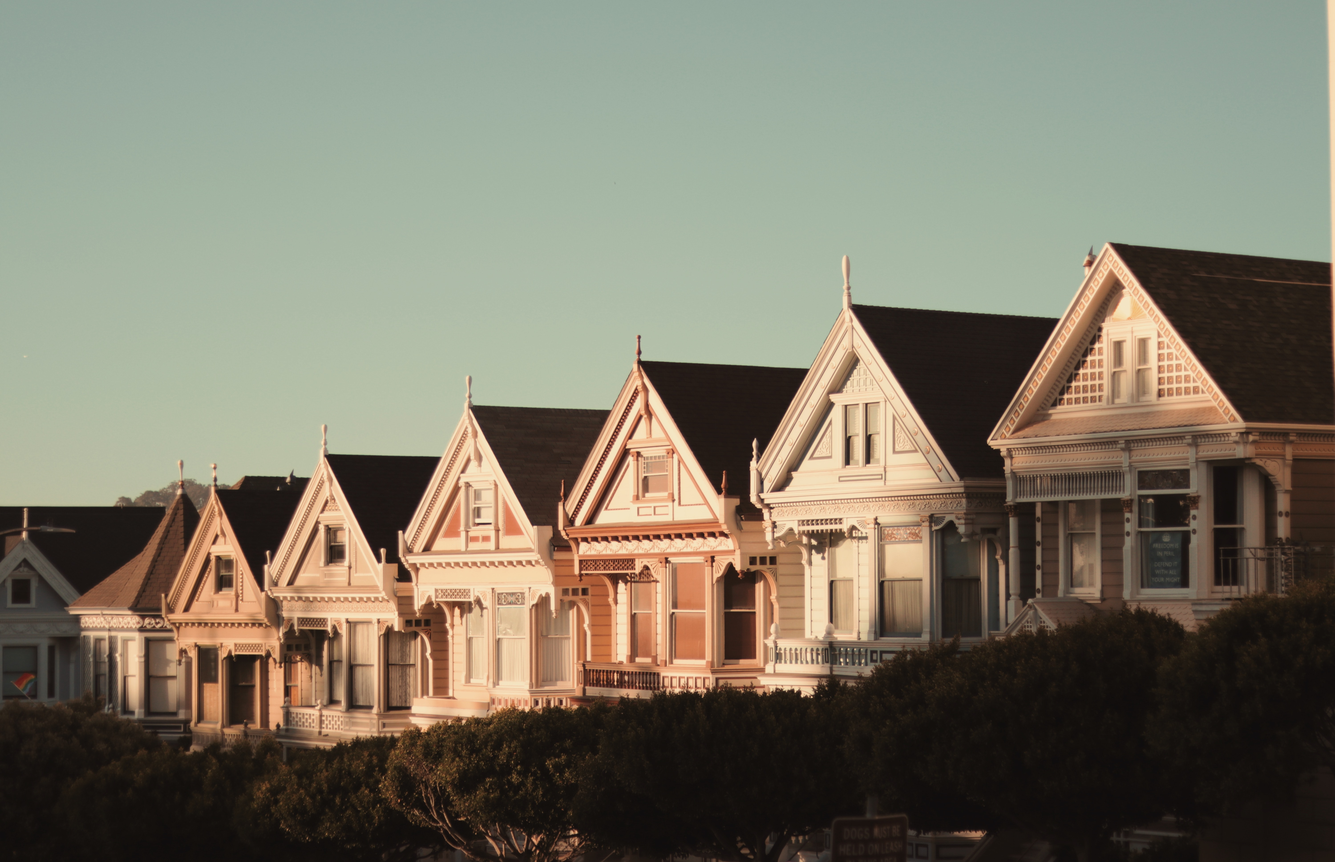
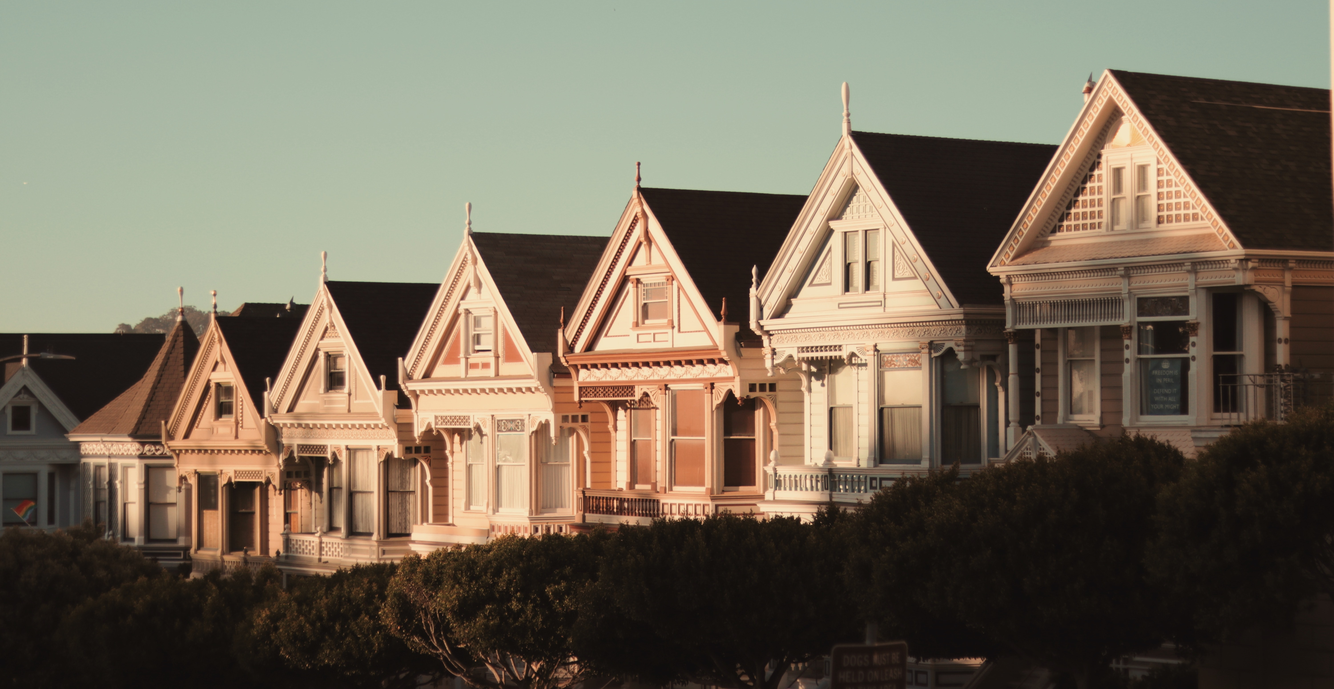
Cleanup code add new pic for mls, update navigation css for mls

diff --git a/index.html b/index.html
@@ -1,47 +1,47 @@
 <!DOCTYPE html>
 <html lang="en">
 
-<head>
-  <meta charset="UTF-8">
-  <meta name="viewport" content="width=device-width, initial-scale=1.0">
-  <link href="https://cdn.jsdelivr.net/npm/bootstrap@5.0.2/dist/css/bootstrap.min.css" rel="stylesheet"
-    integrity="sha384-EVSTQN3/azprG1Anm3QDgpJLIm9Nao0Yz1ztcQTwFspd3yD65VohhpuuCOmLASjC" crossorigin="anonymous">
-  <link rel="preconnect" href="https://fonts.googleapis.com">
-  <link rel="preconnect" href="https://fonts.gstatic.com" crossorigin>
-  <link href="https://fonts.googleapis.com/css2?family=Montserrat&display=swap" rel="stylesheet">
-  <script src="https://ajax.googleapis.com/ajax/libs/jquery/3.5.1/jquery.min.js"></script>
-  <script src="https://cdnjs.cloudflare.com/ajax/libs/popper.js/1.16.0/umd/popper.min.js"></script>
-  <script src="https://cdn.jsdelivr.net/npm/bootstrap@5.0.2/dist/js/bootstrap.bundle.min.js"
-    integrity="sha384-MrcW6ZMFYlzcLA8Nl+NtUVF0sA7MsXsP1UyJoMp4YLEuNSfAP+JcXn/tWtIaxVXM" crossorigin="anonymous">
-  </script>
-  <link rel="stylesheet" href="https://cdn.jsdelivr.net/npm/bootstrap-icons@1.5.0/font/bootstrap-icons.css">
-  <link href="./CSS/headers.css" rel="stylesheet">
-  <link href="./CSS/index.css" rel="stylesheet">
-  <link rel="icon" type="image/x-icon" href="./favicon.ico" />
-  <title>ZeroPads - Home Page</title>
-</head>
+  <head>
+    <meta charset="UTF-8">
+    <meta name="viewport" content="width=device-width, initial-scale=1.0">
+    <link href="https://cdn.jsdelivr.net/npm/bootstrap@5.0.2/dist/css/bootstrap.min.css" rel="stylesheet"
+      integrity="sha384-EVSTQN3/azprG1Anm3QDgpJLIm9Nao0Yz1ztcQTwFspd3yD65VohhpuuCOmLASjC" crossorigin="anonymous">
+    <link rel="preconnect" href="https://fonts.googleapis.com">
+    <link rel="preconnect" href="https://fonts.gstatic.com" crossorigin>
+    <link href="https://fonts.googleapis.com/css2?family=Montserrat&display=swap" rel="stylesheet">
+    <script src="https://ajax.googleapis.com/ajax/libs/jquery/3.5.1/jquery.min.js"></script>
+    <script src="https://cdnjs.cloudflare.com/ajax/libs/popper.js/1.16.0/umd/popper.min.js"></script>
+    <script src="https://cdn.jsdelivr.net/npm/bootstrap@5.0.2/dist/js/bootstrap.bundle.min.js"
+      integrity="sha384-MrcW6ZMFYlzcLA8Nl+NtUVF0sA7MsXsP1UyJoMp4YLEuNSfAP+JcXn/tWtIaxVXM" crossorigin="anonymous">
+    </script>
+    <link rel="stylesheet" href="https://cdn.jsdelivr.net/npm/bootstrap-icons@1.5.0/font/bootstrap-icons.css">
+    <link href="./CSS/headers.css" rel="stylesheet">
+    <link href="./CSS/index.css" rel="stylesheet">
+    <link rel="icon" type="image/x-icon" href="./favicon.ico" />
+    <title>ZeroPads - Home Page</title>
+  </head>
 
-<style>
-  /* Navigation Formatting not active */
-  .list:not(.active) {
-    background-color: none;
-    color: black;
-  }
+  <style>
+    /* Navigation Formatting not active */
+    .list:not(.active) {
+      background-color: none;
+      color: black;
+    }
 
-  /* Navigation Formatting active */
-  #active {
-    font-weight: bold !important;
-    border-bottom: 1px solid black;
-    padding-bottom: 2px;
-  }
+    /* Navigation Formatting active */
+    #active {
+      font-weight: bold !important;
+      border-bottom: 1px solid black;
+      padding-bottom: 2px;
+    }
 
-  #active:hover {
-    border-bottom: 1px solid rgba(57, 181, 74, 1) !important;
-  }
-</style>
+    #active:hover {
+      border-bottom: 1px solid rgba(57, 181, 74, 1) !important;
+    }
+  </style>
 
-<body>
-  <div class="background">
+  <body>
+    
     <!-- Navigation Bar-->
     <div class="container">
       <!-- Header Section-->
@@ -60,101 +60,103 @@
       </header>
       <!-- End Header -->
     </div>
-    <div class="section"></div>
-    <!-- End Header -->
-
-    <div class="body">
-      <h1 class="fw-bold">ZeroPads Group Assignment</h1><br>
-      <p>Welcome to our group assignment for MIST7571E. <br />
-        We came up with this project with one goal in mind:
-        To create reuseable code to later use in our collaborations with the <a
+    <div class="background"></div>
+      <div class="section"></div>
+      <div class="body">
+        <h1 class="fw-bold">ZeroPads Group Assignment</h1><br />
+        <p>Welcome to our group assignment for MIST7571E. <br />
+          We came up with this project with one goal in mind:
+          To create reuseable code to later use in our collaborations with the <a
           href="https://www.zeropads.org/">ZeroPads not-for-profit company </a> . After
-        meeting with our sponsor, we decided to move forward with an MLS
-        listings page to later merge into the ZeroPads website.
-        We've created a Real Estate listings application that allows you to search for homes that are
-        for sale by <strong>city</strong> and <strong>state.</strong></p><br>
+          meeting with our sponsor, we decided to move forward with an MLS
+          listings page to later merge into the ZeroPads website.
+          We've created a Real Estate listings application that allows you to search for homes that are
+          for sale by <strong>city</strong> and <strong>state.</strong>
+        </p><br />
 
-      <p>This project was writtin in HTML/ CSS/ JavaScript and it uses the <a
-          href="https://rapidapi.com/datascraper/api/us-real-estate/"><strong>US Real
-            Estate</strong> API </a>
-        found on Rapid API <br />
-        You can find the api details below.</a><br />
-        This project is hosted using <strong>Github Pages</strong>.</p><br>
-      <a href="./mls.html">
-        <center><button class="button">Start Your Search</button>
-      </a> <br />
-      <a href='https://rapidapi.com/datascraper/api/us-real-estate' target="_blank"><button class="button">API
-          Discovery</button></a></center>
-      <br><br>
+        <p>This project was writtin in HTML/ CSS/ JavaScript and it uses the 
+          <a href="https://rapidapi.com/datascraper/api/us-real-estate/"><strong>US Real
+            Estate</strong> API 
+          </a> found on Rapid API <br />
+          You can find the api details below.<br />
+          This project is hosted using <strong>Github Pages</strong>.
+        </p><br />
+        
+        <a href="./mls.html">
+          <center><button class="button">Start Your Search</button>
+        </a> <br />
+        <a href='https://rapidapi.com/datascraper/api/us-real-estate' target="_blank"><button class="button">API
+            Discovery</button></a></center>
+        <br><br>
 
-      <h2 class="fw-bold title">Team Members</h2><br>
-      <table class="table table-bordered table-striped">
-        <thead>
-          <tr>
-            <th scope="col">Name</th>
-            <th scope="col">UGA Email</th>
-          </tr>
-        </thead>
-        <tbody>
-          <tr>
-            <th scope="row">Harli Bott</th>
-            <td>hjb15032@uga.edu</td>
-          </tr>
-          <tr>
-            <th scope="row">Christina Tomter</th>
-            <td>christina.tomter@uga.edu</td>
-
-          </tr>
-          <tr>
-            <th scope="row">Casey Powell</th>
-            <td>casey.powell@uga.edu</td>
-          </tr>
-          <tr>
-            <th scope="row">Kevin Marshall</th>
-            <td>kevin.marshall@uga.edu</td>
-          </tr>
-          <tr>
-            <th scope="row">Gary LeAndre</th>
-            <td>gary.leandre@uga.edu</td>
-          </tr>
-          <tr>
-            <th scope="row">Aj Johnson</th>
-            <td>alj67699@uga.edu</td>
-          </tr>
-        </tbody>
-      </table>
-      <br>
-      <div class="container-fluid py-4 question">
-        <h1>Questions?</h1>
-        <p>Reach out to our team </p> <br />
+        <h2 class="fw-bold title">Team Members</h2><br>
+        <table class="table table-bordered table-striped">
+          <thead>
+            <tr>
+              <th scope="col">Name</th>
+              <th scope="col">UGA Email</th>
+            </tr>
+          </thead>
+          <tbody>
+            <tr>
+              <th scope="row">Harli Bott</th>
+              <td>hjb15032@uga.edu</td>
+            </tr>
+            <tr>
+              <th scope="row">Aj Johnson</th>
+              <td>alj67699@uga.edu</td>
+            </tr>
+            <tr>
+              <th scope="row">Gary LeAndre</th>
+              <td>gary.leandre@uga.edu</td>
+            </tr>
+            <tr>
+              <th scope="row">Kevin Marshall</th>
+              <td>kevin.marshall@uga.edu</td>
+            </tr>
+            <tr>
+              <th scope="row">Christina Tomter</th>
+              <td>christina.tomter@uga.edu</td>
+            </tr>
+            <tr>
+              <th scope="row">Casey Powell</th>
+              <td>casey.powell@uga.edu</td>
+            </tr>
+          </tbody>
+        </table>
+        <br>
+        <div class="container-fluid py-4 question">
+          <h1>Questions?</h1>
+          <p>Reach out to our team members above and they will be happy to assist you with
+            any questions that you might have.
+          </p><br />
+        </div>
       </div>
     </div>
-  </div>
-  </div>
 
-  <footer class="bg-light text-center text-white">
-    <!-- Grid container -->
-    <div class="container p-4 pb-0">
-      <!-- Section: Social media -->
-      <section class="mb-4">
-        <!-- Google -->
-        <a class="btn btn-primary btn-floating m-1"
-          style="background-color: #39b54a; border-color: #39b54a; border-radius: 0px;"
-          href="https://www.google.com/search?client=firefox-b-1-d&q=ZeroPads+Development+group" target="_blank"
-          role="button"><i class="bi bi-google"></i></a>
+    <footer class="bg-light text-center text-white">
+      <!-- Grid container -->
+      <div class="container p-4 pb-0">
+        <!-- Section: Social media -->
+        <section class="mb-4">
+          <!-- Google -->
+          <a class="btn btn-primary btn-floating m-1"
+            style="background-color: #39b54a; border-color: #39b54a; border-radius: 0px;"
+            href="https://www.google.com/search?client=firefox-b-1-d&q=ZeroPads+Development+group" target="_blank"
+            role="button"><i class="bi bi-google"></i>
+          </a>
 
-        <!-- Instagram -->
-        <a class="btn btn-primary btn-floating m-1"
-          style="background-color: #39b54a; border-color: #39b54a; border-radius: 0px;"
-          href="https://www.instagram.com/zeropads/" target="_blank" role="button"><i class="bi bi-instagram"></i></a>
-      </section>
-      <!-- Section: Social media -->
-    </div>
-    <div class="text-center p-3" style="background-color: rgba(0, 0, 0, 0.2);">
-      ZeroPads Development Group
-    </div>
-  </footer>
-
-</body>
-
+          <!-- Instagram -->
+          <a class="btn btn-primary btn-floating m-1"
+            style="background-color: #39b54a; border-color: #39b54a; border-radius: 0px;"
+            href="https://www.instagram.com/zeropads/" target="_blank" role="button"><i class="bi bi-instagram"></i>
+          </a>
+        </section>
+        <!-- Section: Social media -->
+      </div>
+      <div class="text-center p-3" style="background-color: rgba(0, 0, 0, 0.2);">
+        ZeroPads Development Group Inc.
+      </div>
+    </footer>
+  </body>
 </html>

diff --git a/CSS/mls.css b/CSS/mls.css
@@ -96,6 +96,15 @@
   .container{
     margin-bottom: 0px !important;
   }
+
+  .list, .nav-link{
+    color: black !important;
+}
+
+  .nav-link:hover {
+      text-decoration: none;
+      color: rgba(57, 181, 74, 1) !important;
+  }
   
   @media only screen and (max-width: 1232px){
     .form{

diff --git a/CSS/index.css b/CSS/index.css
@@ -9,6 +9,7 @@
   width: 100%;
   background-size: cover;
   background-image: url("../images/city4.jpeg");
+  margin-bottom: 50px;
 }
 
 .section {
